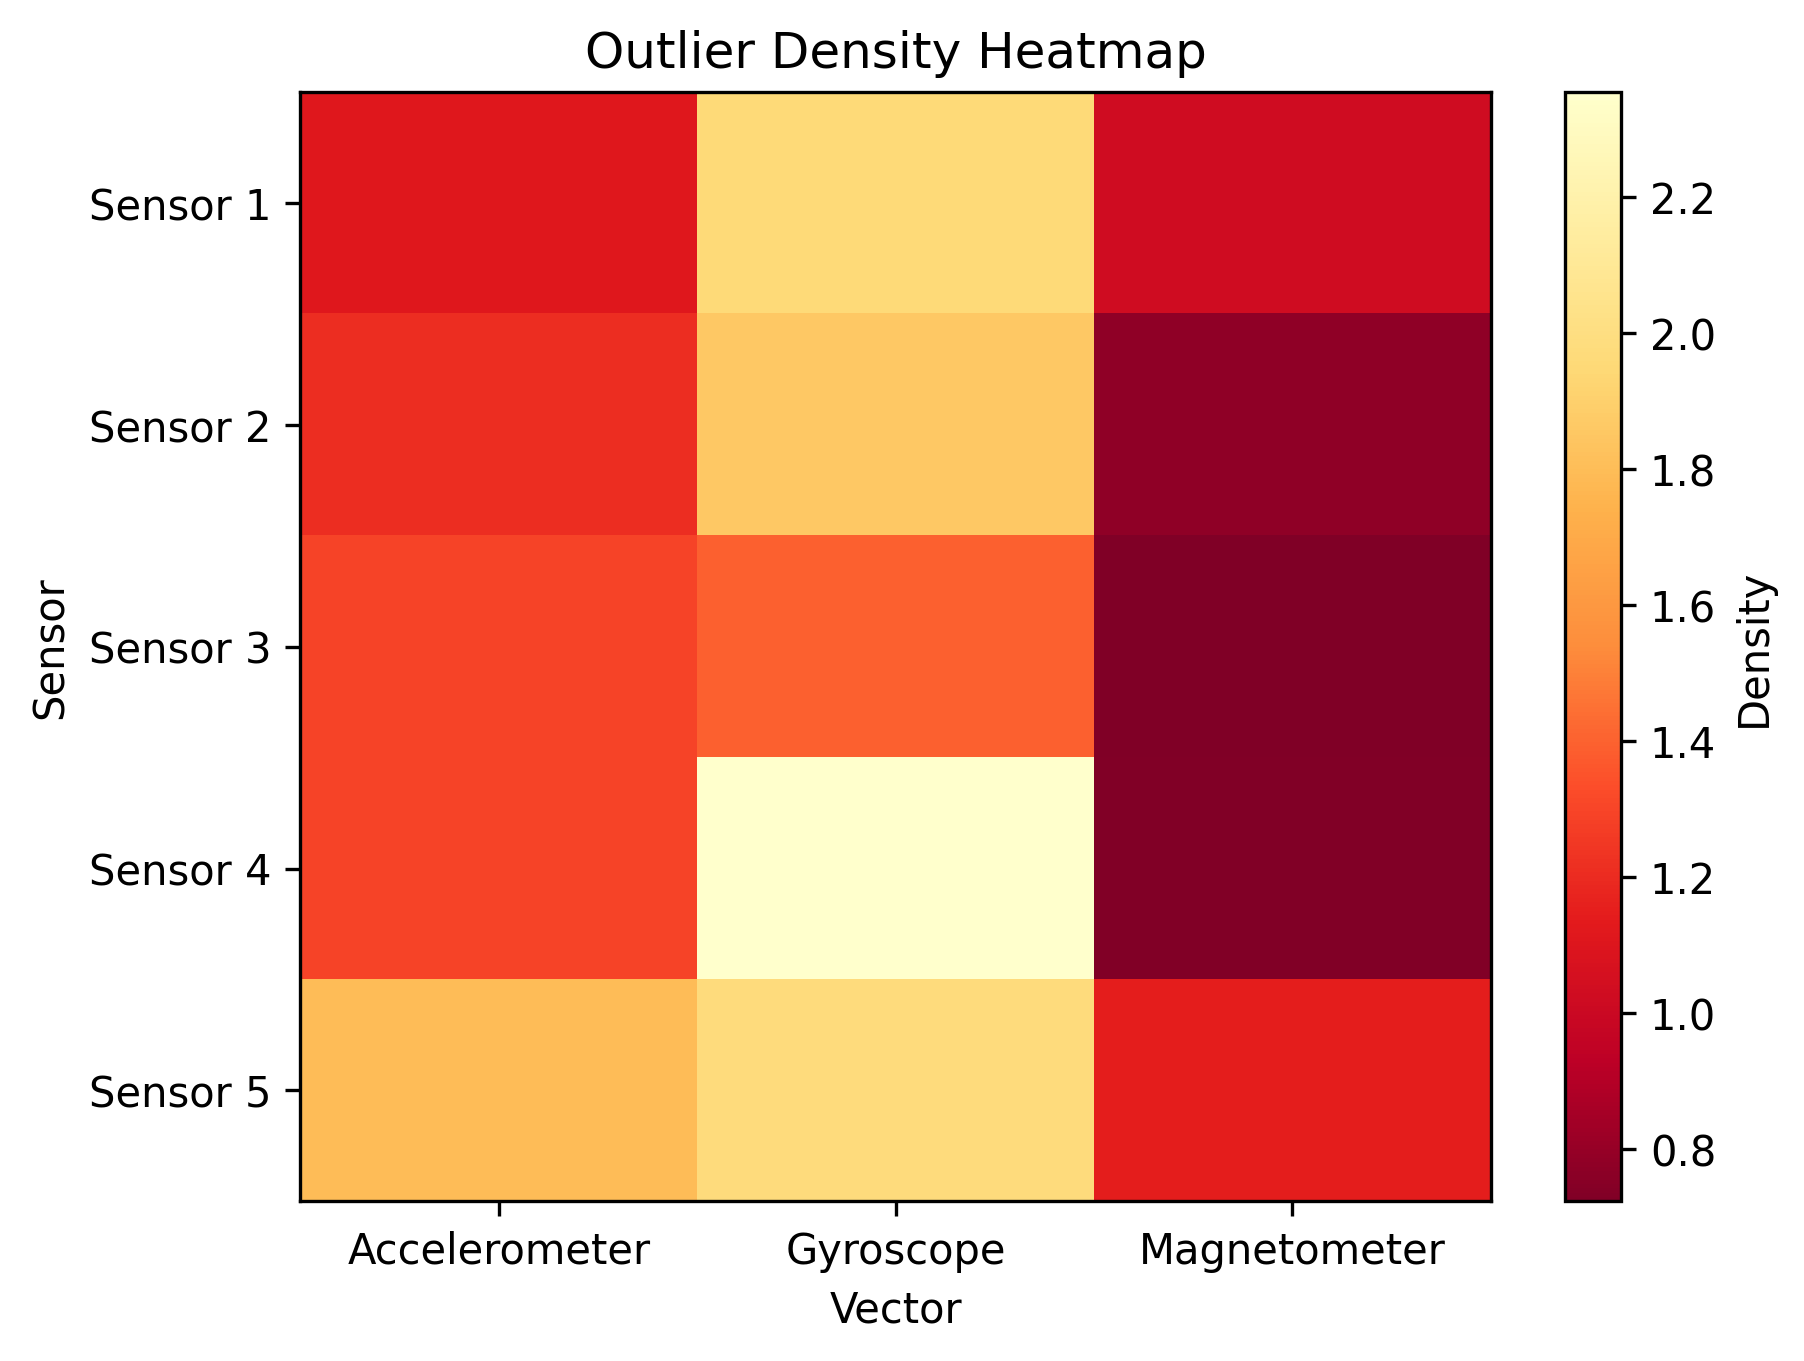
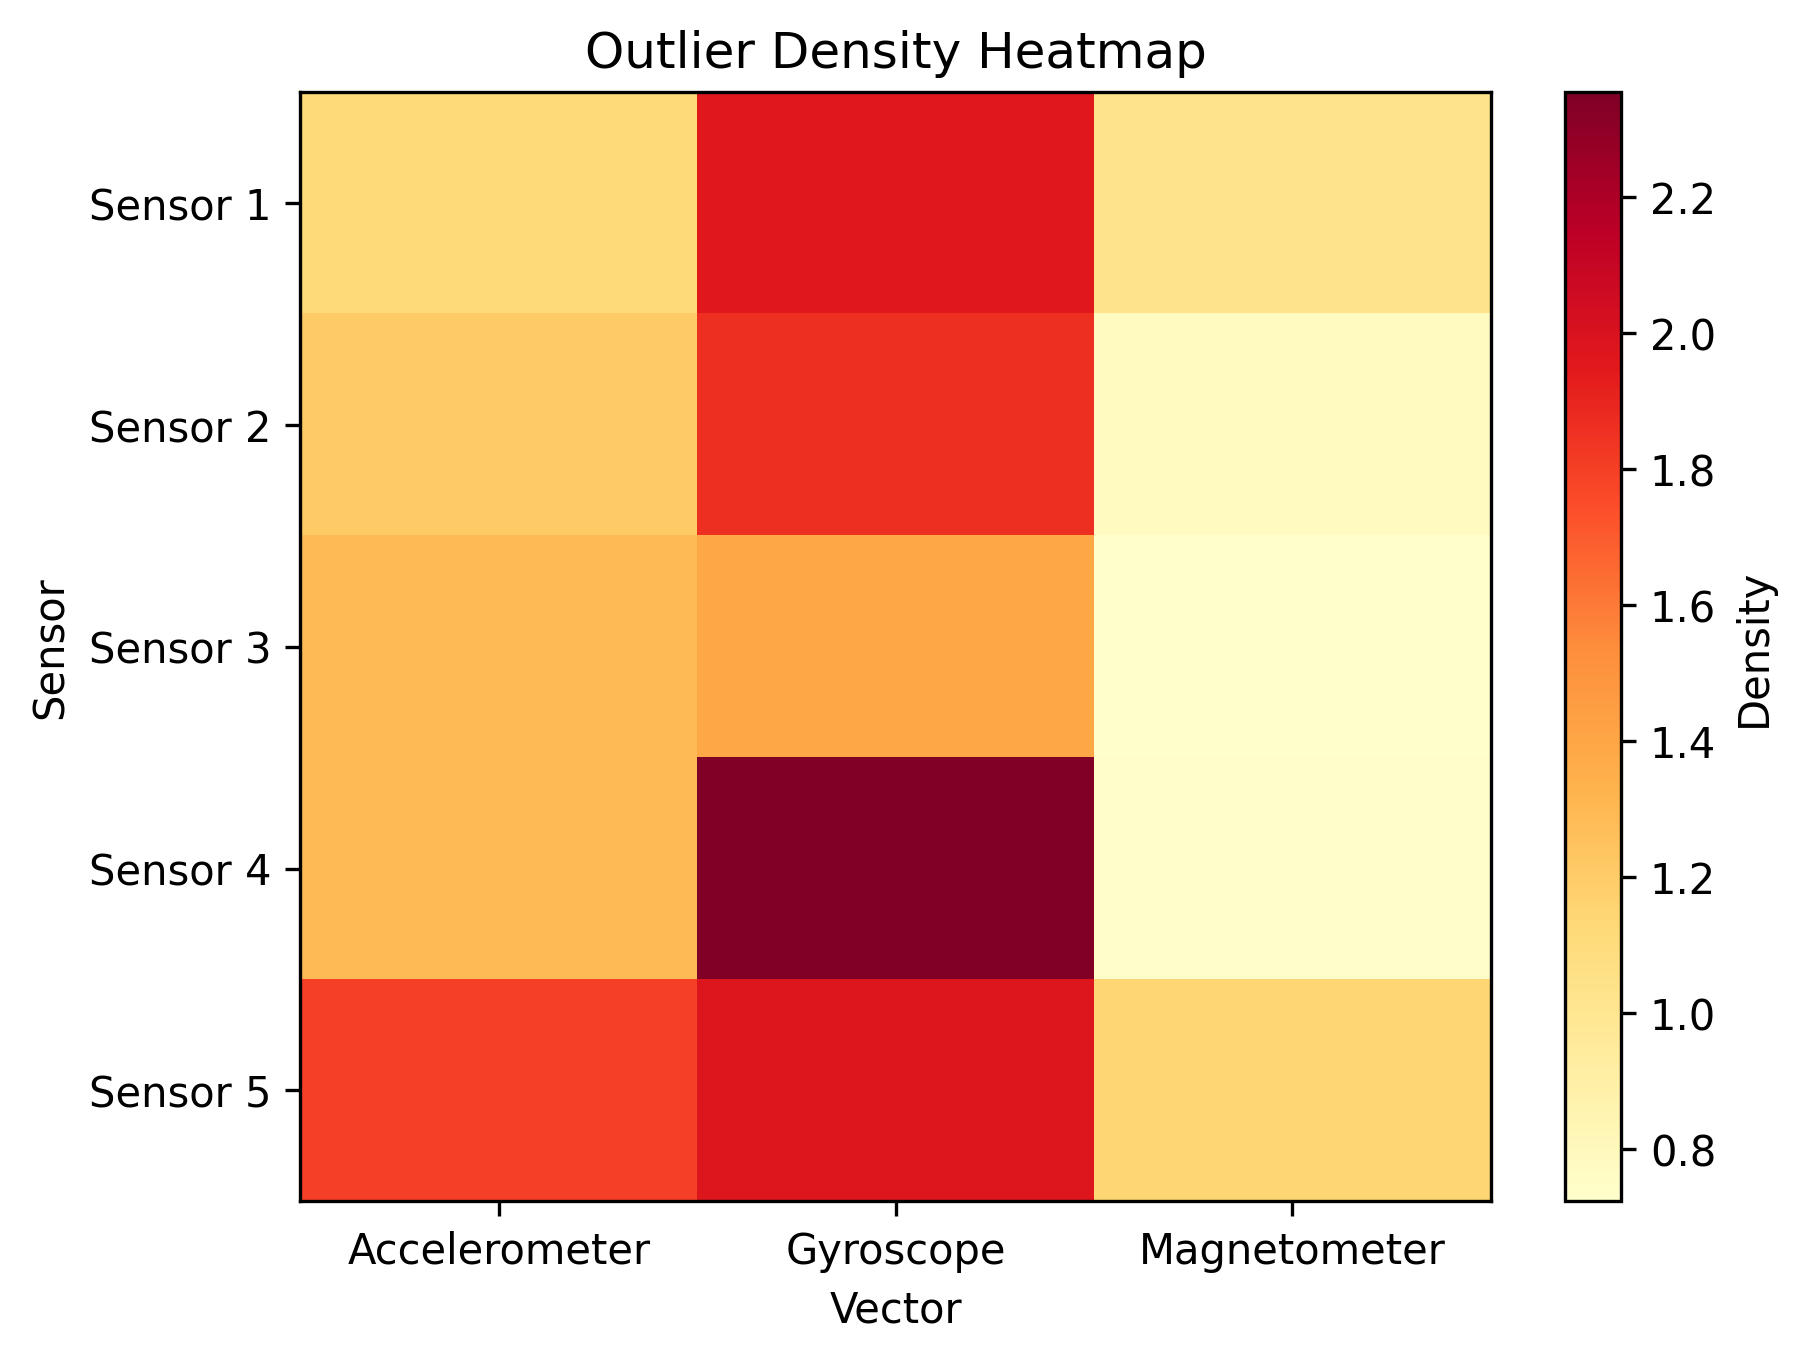
algo

diff --git a/mainActivity.py b/mainActivity.py
@@ -1291,9 +1291,14 @@ def main():
     # list_density_2 = ex_3_7("Gyroscope", 4, False)
     # list_density_3 = ex_3_7("Magnetometer", 7, False)
 
+    # calculado para n demorar tanto tempo
+    # list_density_1 = [1.1137663331830852, 1.2115522117351214, 1.2957499872220466, 1.2967960035310169, 1.7952385509158766]
+    # list_density_2 = [1.9545680032030541, 1.8585149531789815, 1.3943040471381971, 2.354220166920793, 1.973024834678902]
+    # list_density_3 = [1.025002455171094, 0.7779413589287382, 0.7235597936131203, 0.7327862932348929, 1.1501966729286388]
+
     # heatmap_data = np.array([list_density_1, list_density_2, list_density_3]).T
 
-    # plt.imshow(heatmap_data, cmap='YlOrRd_r', aspect='auto')
+    # plt.imshow(heatmap_data, cmap='YlOrRd', aspect='auto')
     # plt.colorbar(label='Density')
     # plt.title('Outlier Density Heatmap')
     # plt.xlabel('Vector')
@@ -1337,12 +1342,12 @@ def main():
     # ex_4_1()
 
     # EX 4.2
-    all_features_list_norm = ex_4_2()
+    # all_features_list_norm = ex_4_2()
 
     # EX 4.3 - PCA
 
-    for i in range(NUM_SENSORS):
-        PCA(all_features_list_norm[i], i)
+    # for i in range(NUM_SENSORS):
+    #     PCA(all_features_list_norm[i], i)
 
     # EX 4.4
 
